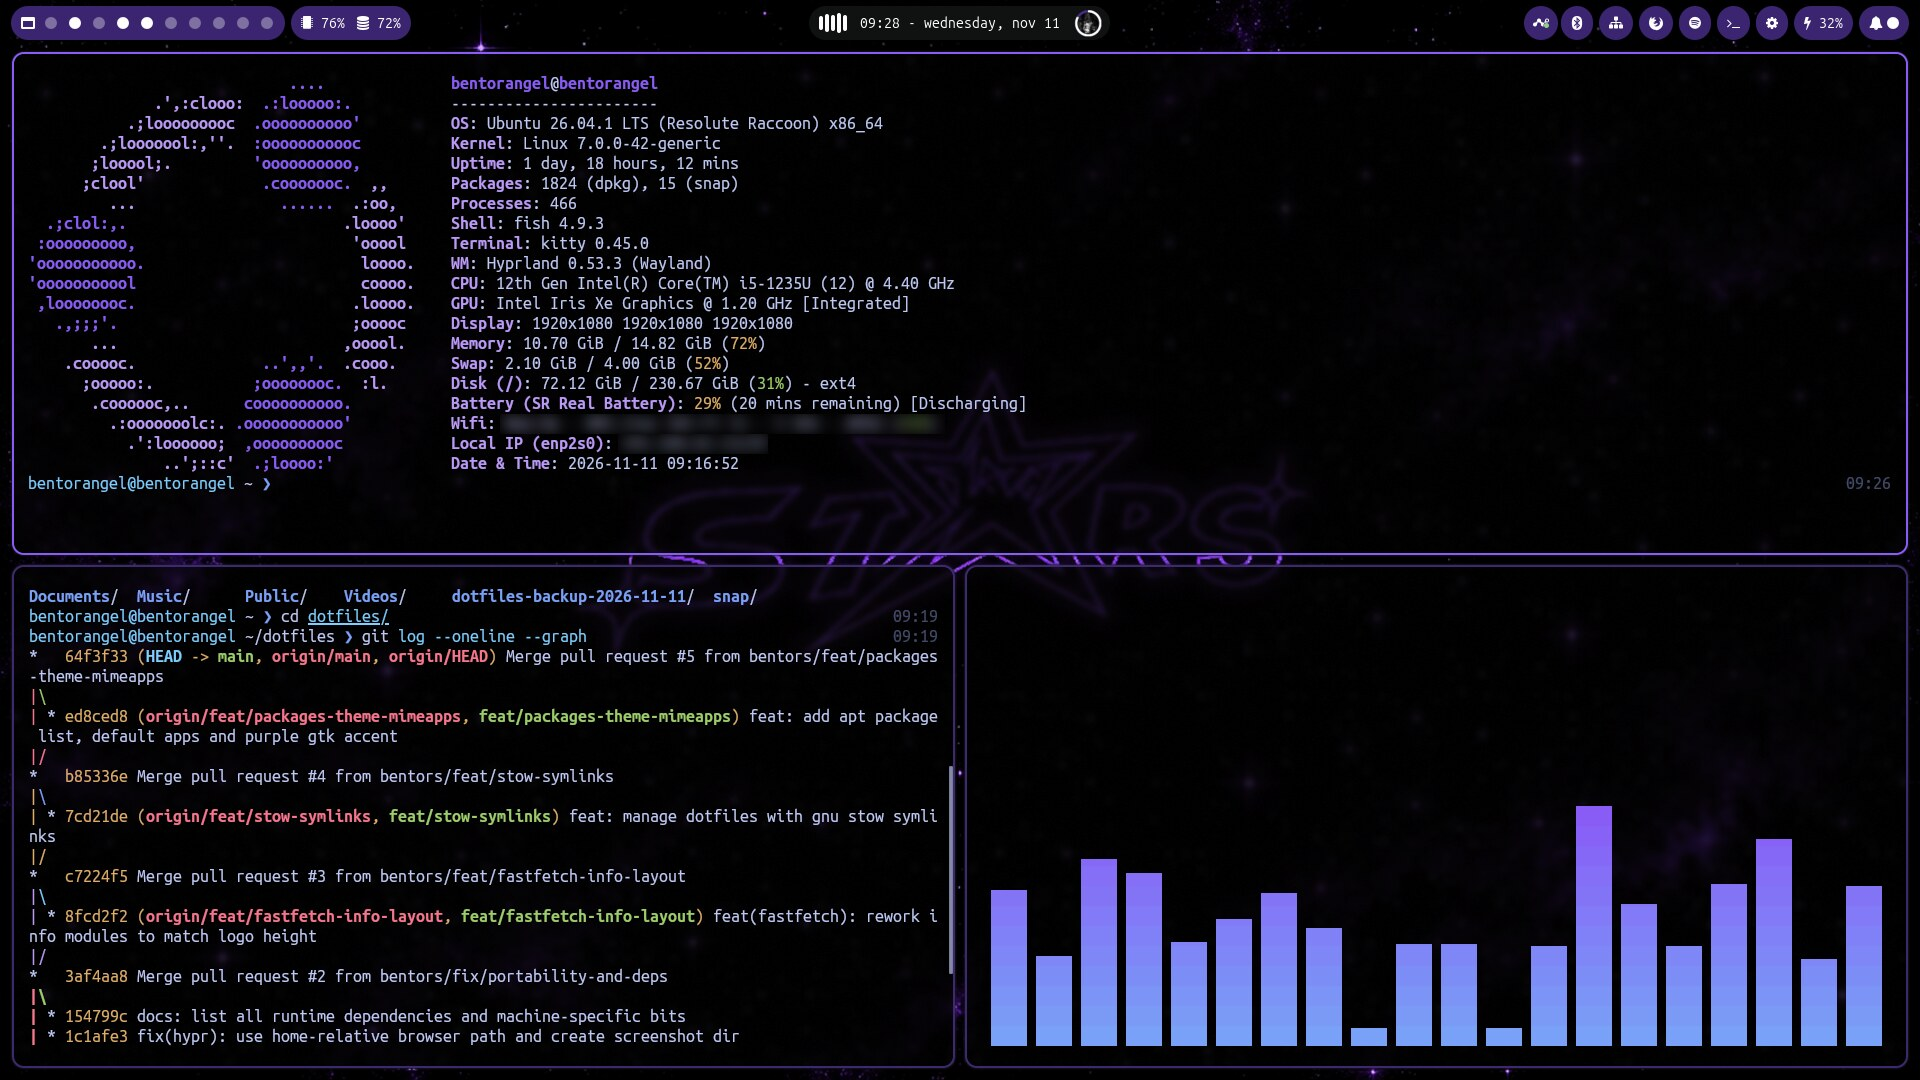
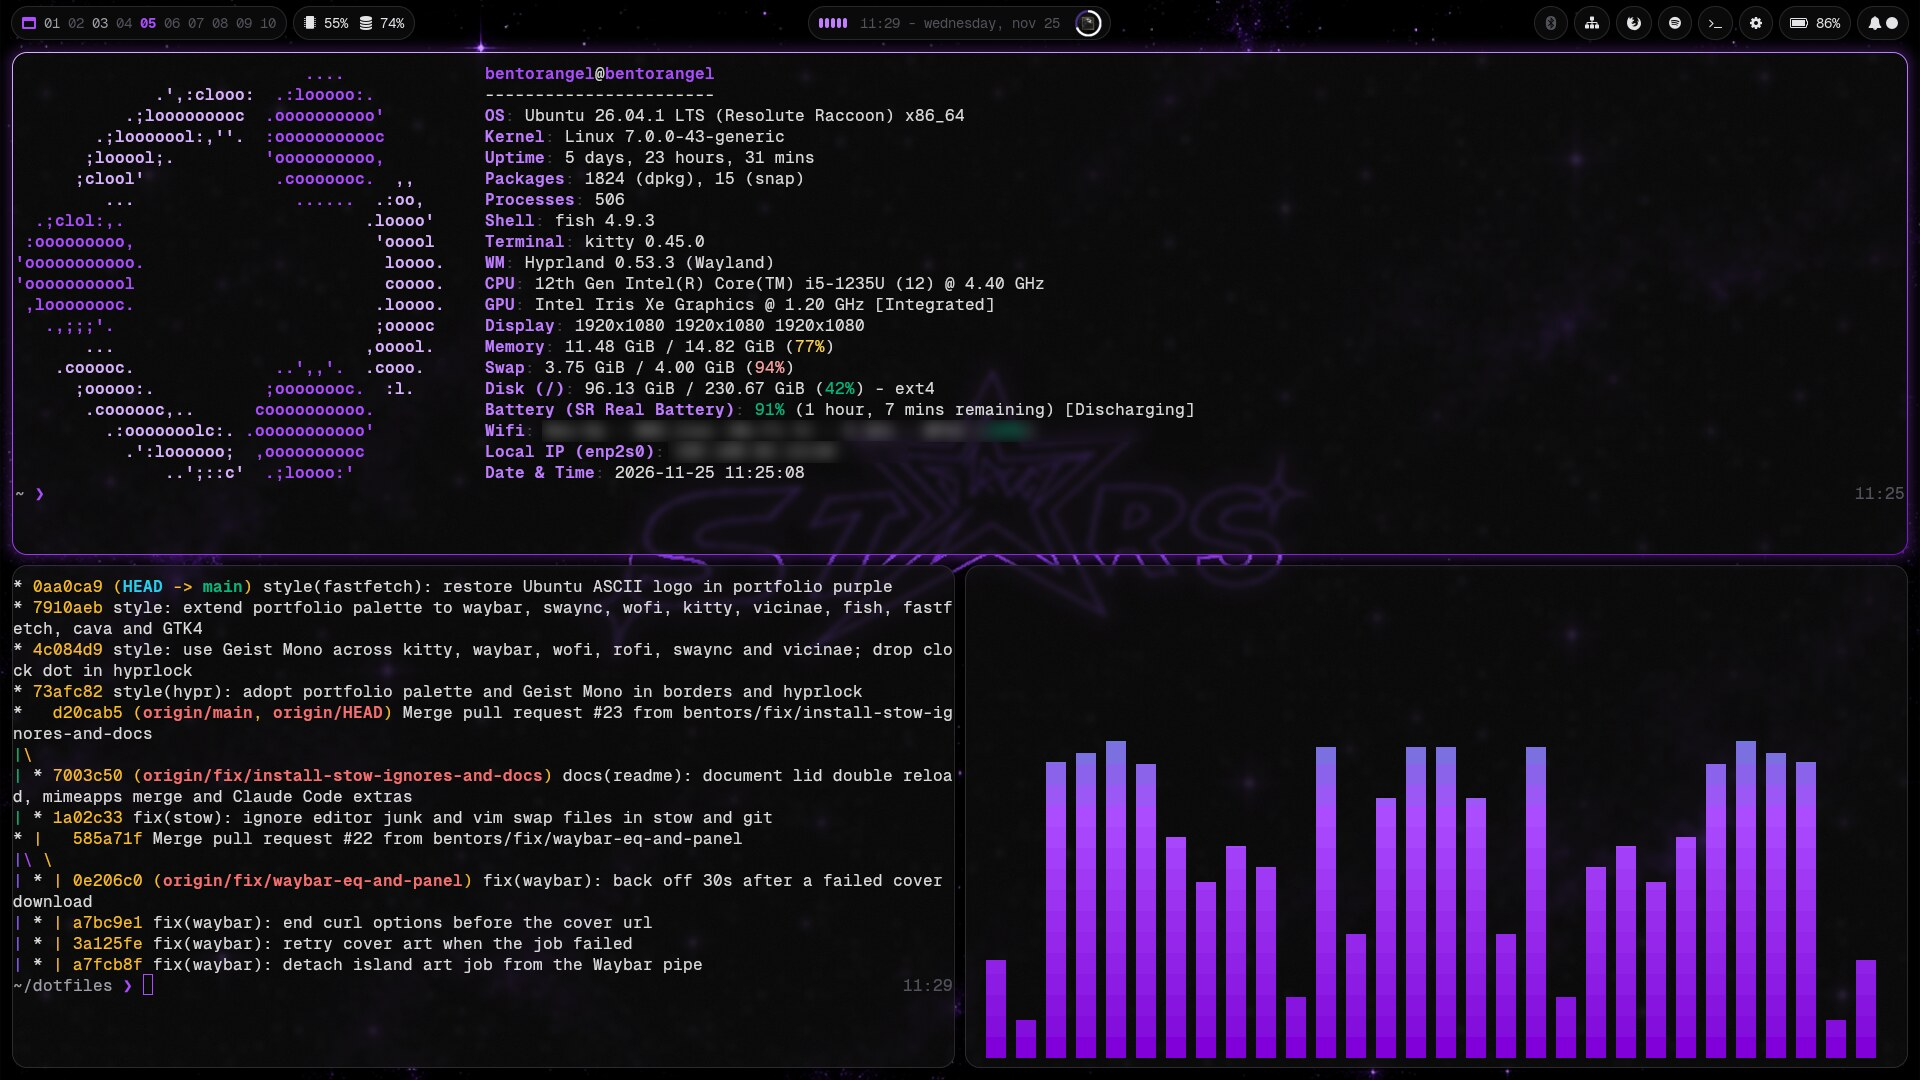
docs(readme): document the portfolio theme and refresh screenshots

Changed region(s): [[0.0, 0.0, 1.0, 1.0], [0.9688, 0.0917, 1.0, 0.275], [0.9688, 0.3361, 1.0, 0.3972]]

diff --git a/README.md b/README.md
@@ -1,16 +1,33 @@
 # dotfiles
 
-Hyprland desktop on Ubuntu with a purple Waybar and a media "dynamic island".
+Hyprland desktop on Ubuntu with a media "dynamic island" on the Waybar, styled after my
+portfolio, [bentorangel.vercel.app](https://bentorangel.vercel.app): Geist Mono everywhere,
+near-black surfaces with thin zinc borders, and a purple accent.
 
-![](https://img.shields.io/badge/WM-Hyprland-8b5cf6) ![](https://img.shields.io/badge/bar-Waybar-8b5cf6)
+![](https://img.shields.io/badge/WM-Hyprland-ac4bff) ![](https://img.shields.io/badge/bar-Waybar-ac4bff) ![](https://img.shields.io/badge/font-Geist_Mono-ac4bff)
 
 ![Desktop: kitty with fastfetch, cava and git log tiled under the Waybar](screenshots/desktop.jpg)
 
 | Spotify panel on the island | hyprlock |
 |---|---|
-| ![Spotify panel opened from the island](screenshots/island.png) | ![hyprlock with the blue to purple input ring](screenshots/lock.jpg) |
+| ![Spotify panel opened from the island](screenshots/island.png) | ![hyprlock with a Geist Mono clock and a purple input ring](screenshots/lock.jpg) |
 | **Wallpaper picker (`Alt+W`)** | **Notification center** |
 | ![rofi thumbnail grid of the wallpaper library](screenshots/rofi.png) | ![swaync with Wi-Fi, Bluetooth, sliders and media controls](screenshots/swaync.png) |
+
+## Look
+
+One palette, taken from the portfolio's CSS, shared by every config:
+
+| Role | Color |
+|---|---|
+| Background / surfaces | `#050505` / `#0a0a0a` / `#0f0f0f` |
+| Borders | `#27272a` (zinc-800), purple at 50% on hover |
+| Text | `#e4e4e7`, dimmed `#a1a1aa` / `#71717a` |
+| Accent | `#ac4bff`, lighter `#c07eff` / `#d9b3ff`, deeper `#8200da` |
+| Secondary accent | `#00d294` (emerald: charging, checks, cava peaks) |
+
+The active window border is a `#d9b3ff → #ac4bff → #8200da` gradient with a faint
+purple glow; Waybar workspaces read `01 02 03 …` like the portfolio's numbered sections.
 
 ## What's inside
 
@@ -19,14 +36,17 @@ Hyprland desktop on Ubuntu with a purple Waybar and a media "dynamic island".
 | `.config/hypr/` | Hyprland, hyprlock and hypridle configs, plus volume/backlight/wallpaper scripts |
 | `.config/waybar/` | Bar config and style, and the dynamic island: clock, equalizer, album art ring |
 | `.config/waybar/scripts/player-panel.py` | GTK4 Spotify panel that opens on hover over the island |
-| `.config/kitty/` | Translucent black terminal |
-| `.config/fastfetch/` | Purple fetch on terminal start |
-| `.config/cava/` | Terminal audio visualizer with the blue to purple gradient |
-| `.config/vicinae/` | Launcher settings (`Super+Space`) |
+| `.config/kitty/` | Translucent near-black terminal with the palette as its ANSI colors |
+| `.config/fastfetch/` | Fetch on terminal start, Ubuntu logo in purple |
+| `.config/cava/` | Terminal audio visualizer with a purple to emerald gradient |
+| `.config/vicinae/` | Launcher settings (`Super+Space`), Geist Mono and the `bento` theme |
+| `.local/share/vicinae/themes/bento.toml` | vicinae theme with the portfolio palette |
 | `.config/wofi/` | App menu style (`$menu` and the bar's launcher button) |
 | `.config/swaync/` | Notification center with Wi-Fi, Bluetooth, volume and media controls |
 | `.config/rofi/wallpaper.rasi` | Thumbnail grid used by `scripts/wallpaper` |
-| `.config/fish/` | Shell prompt, clock on the right, fastfetch greeting |
+| `.config/fish/` | Minimal prompt (path and a purple `❯`), clock on the right, fastfetch greeting |
+| `.config/fontconfig/` | Maps `monospace` to Geist Mono and `sans-serif` to Geist |
+| `.config/gtk-4.0/gtk.css` | libadwaita accent and dark surfaces in the portfolio palette |
 | `.config/mimeapps.list` | Zen Browser as the default for web links and HTML |
 | `.gitconfig` | Git identity, GitHub auth through `gh` |
 | `packages.txt` | apt packages the configs depend on |
@@ -89,10 +109,13 @@ mkdir -p ~/.claude && cp --update=none .claude/settings.json ~/.claude/
 # ln -s desktop-wallpaper.png ~/.config/hypr/wallpaper.png
 # fish as the login shell
 chsh -s "$(command -v fish)"
-# purple accent for GTK/libadwaita apps (dconf, not a file)
+# purple accent and Geist fonts for GTK/libadwaita apps (dconf, not a file)
 gsettings set org.gnome.desktop.interface color-scheme 'prefer-dark'
 gsettings set org.gnome.desktop.interface gtk-theme 'Yaru-purple-dark'
 gsettings set org.gnome.desktop.interface accent-color 'purple'
+gsettings set org.gnome.desktop.interface font-name 'Geist 11'
+gsettings set org.gnome.desktop.interface document-font-name 'Geist 12'
+gsettings set org.gnome.desktop.interface monospace-font-name 'Geist Mono 11'
 ```
 
 `.stowrc` targets `$HOME`, so the clone can live anywhere, and links files one
@@ -110,6 +133,10 @@ Dependencies available in apt are listed in `packages.txt` (ImageMagick must
 be 7, for `magick`). The rest comes from elsewhere:
 
 - `vicinae` launcher.
+- [Geist and Geist Mono](https://github.com/vercel/geist-font/releases): copy the
+  `Geist/otf` and `GeistMono/otf` files from the release zip into
+  `~/.local/share/fonts/geist/` and run `fc-cache -f`. Running apps (Waybar,
+  swaync, the island panel) only pick up new fonts after a restart, not a reload.
 - Zen Browser, unpacked in `~/.local/opt/zen/`. `mimeapps.list` expects
   `~/.local/share/applications/zen.desktop`, for example (`Exec` needs an
   absolute path: desktop files don't expand `$HOME` or `~`):
